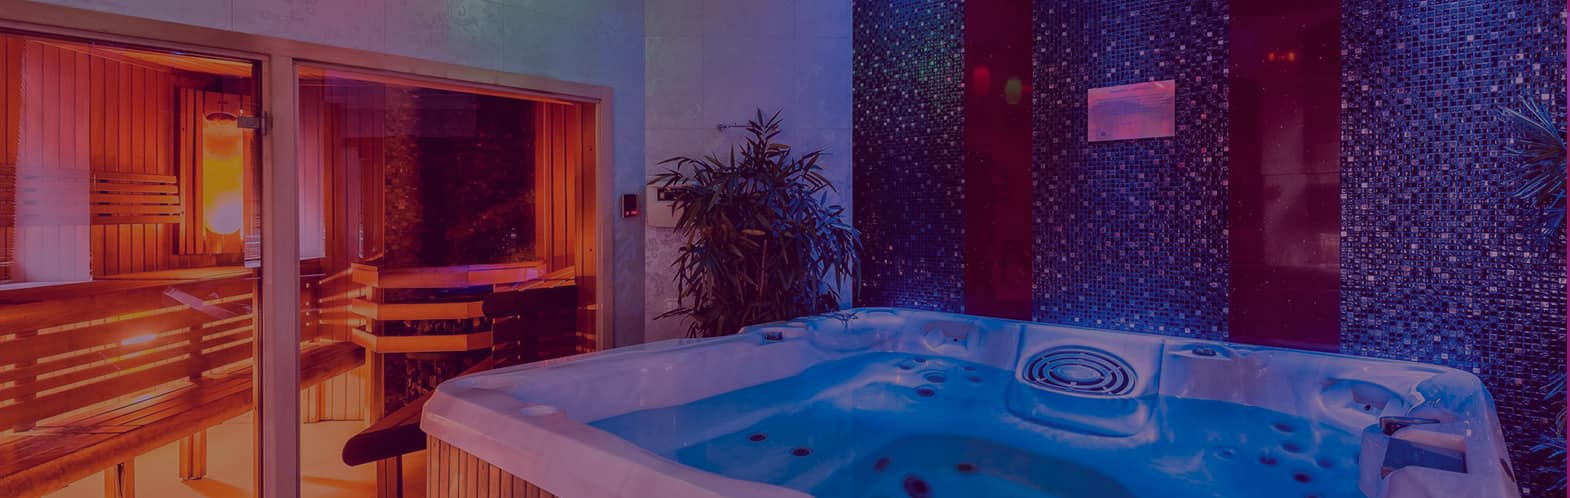
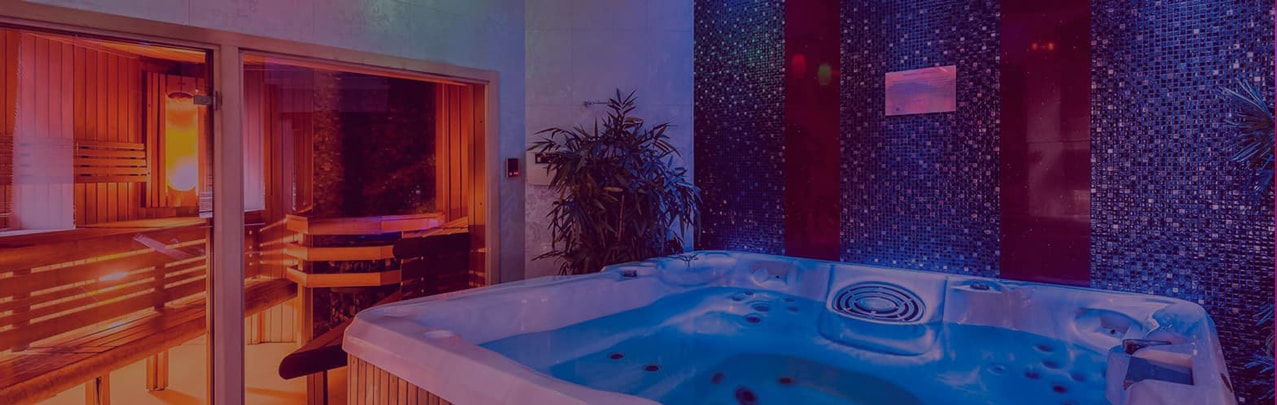
vacancies

diff --git a/vacancies.html b/vacancies.html
@@ -1,0 +1,59 @@
+<!DOCTYPE html>
+<html lang="ru">
+<head>
+	<title>Вакансии | Орхидея</title>
+	<meta charset="utf-8">
+	<meta name="viewport" content="width=device-width">
+	<meta name="format-detection" content="telephone=no">
+	<link rel="shortcut icon" type="image/x-icon" href="favicon.ico">
+	<link rel="stylesheet" type="text/css" href="css/style.css">
+	<link rel="stylesheet" href="css/owl.carousel.min.css">
+</head>
+<body class="vacancies">
+	<script src="templates/svg-sprite.js"></script>
+	<script src="templates/header.js"></script>
+	<main>
+		<ul class="breadcrumb">
+			<li><a href="index.html">Главная</a></li>
+			<li><a>Вакансии</a></li>
+		</ul>
+		<section class="preview">
+			<h1 class="wrapper single">Вакансии</h1>
+		</section>
+		<section class="content">
+			<h2 class="wrapper">Приглашаем на работу девушек от 19 до 30 лет</h2>
+			<p class="wrapper">С приятными внешними данными! Для исполнения эротического массажа в спа салоне «Орхидея»  (НЕ ИНТИМ!)</p>
+			<p class="wrapper">Мы предлагаем:</p>
+			<ul class="bulleted wrapper">
+				<li>Официальное оформление</li>
+				<li>Бесплатное питание</li>
+				<li>Обучение у высокопрофессиональных специалистов в учебных центрах города</li>
+				<li>Расположение в центре</li>
+				<li>Дружный коллектив</li>
+				<li>Согласуемый график работ</li>
+			</ul>
+			<button type="button" class="accordion active">Вакансия: Администратор<svg class="icon"><use xlink:href="#icon-arrow"></use></svg></button>
+			<div class="panel">
+				<p class="wrapper">Требуются на работу девушки, свободно говорящие по-английски, коммуникабельные, стрессоустойчивые. График сутки через трое. Высокая зарплата. Официальное трудоустройство.<br>Зарплата: от 40000, выплачивается 2 раза в месяц.<br>График: сутки через трое.<br>Возраст: от 20 до 30 лет.<br>Доп. требования: знание разговорного английского, коммуникабельность, стрессоустойчивость, доброжелательность, привлекательная внешность.</p>
+			</div>
+			<button type="button" class="accordion">Вакансия: Помощник администратора<svg class="icon"><use xlink:href="#icon-arrow"></use></svg></button>
+			<div class="panel">
+				<p class="wrapper">Помогать</p>
+			</div>
+			<button type="button" class="accordion">Вакансия: Массажистка<svg class="icon"><use xlink:href="#icon-arrow"></use></svg></button>
+			<div class="panel">
+				<p class="wrapper">Массажистковать</p>
+			</div>
+		</section>
+		<script src="templates/girls.js"></script>
+		<script src="templates/instagram.js"></script>
+		<script src="templates/info.js"></script>
+	</main>
+	<script src="templates/footer.js"></script>
+	<script src="js/jquery.min.js"></script>
+	<script src="js/owl.carousel.min.js"></script>
+	<script defer src="js/babel.js"></script>
+	<script src="https://maps.googleapis.com/maps/api/js?key=AIzaSyCoY77NK4l5PPF3rKREUDuhDFVBtFb7VYA&callback=initMap"
+    async defer></script>
+</body>
+</html>

diff --git a/css/style.css b/css/style.css
@@ -278,6 +278,11 @@ section.preview > img {
 	padding-top: 180px;
 }
 
+.vacancies section.preview {
+	background-image: url(../images/preview-vacancies.jpg);
+	padding-top: 180px;
+}
+
 .girls section.preview {
 	background-image: url(../images/preview-girls.jpg);
 }
@@ -1357,13 +1362,17 @@ a[href^='mailto:'].circle-icon::before {
 
 .accordion {
 	width: 100%;
-	padding-right: 6.25vw;
+	padding: 14px 6.25vw;
 	padding-left: 6.25vw;
 	background-color: rgb(233, 30, 145);
 	color: white;
-	line-height: 50px;
+	font-size: initial;
+	line-height: 22px;
 	text-align: left;
 	position: relative;
+	transition-property: background-color;
+	transition-duration: .35s;
+	transition-timing-function: ease-in-out;
 }
 
 .accordion svg {
@@ -1383,9 +1392,9 @@ a[href^='mailto:'].circle-icon::before {
 .panel {
 	max-height: 0;
 	overflow: hidden;
-	transition-property: max-height;
-	transition-duration: .35s;
-	transition-timing-function: ease-in-out;
+	transition-property: max-height, background-color;
+	transition-duration: .35s, .35s;
+	transition-timing-function: ease-in-out, ease-in-out;
 }
 
 .panel > div {
@@ -1502,4 +1511,29 @@ ul.parameters li {
 
 .fancybox-navigation .fancybox-button {
 	transform: translateY(-50%);
+}
+
+.vacancies .accordion {
+	color: black;
+	background-color: transparent;
+}
+
+.vacancies .accordion {
+	border-top: 1px solid rgb(226, 226, 226);
+}
+
+.vacancies .accordion:last-of-type,
+.vacancies .accordion.active {
+	border-bottom: 1px solid rgb(226, 226, 226);
+}
+
+.vacancies .panel > p {
+	padding-top: 15px;
+	padding-bottom: 15px;
+	margin-bottom: 0;
+}
+
+.vacancies .accordion.active,
+.vacancies .accordion.active + .panel {
+	background-color: rgb(243, 243, 243);
 }

diff --git a/js/babel.js b/js/babel.js
@@ -75,32 +75,24 @@ function scrollAfterClose() {
 	}, 0);
 }
 
-var map,
-    orchid = { lat: 59.9271230, lng: 30.3546023 },
-    hotel = { lat: 59.9302777, lng: 30.3612273 },
-    vladimirskaya = { lat: 59.9275064, lng: 30.3479397 },
-    markerPedestrian = 'images/pedestrian.png';
+(function setActiveAccordionsHeight() {
 
-function drawPath(place) {
+	var activeAccordions = document.querySelectorAll('.accordion.active');
+	if (!activeAccordions.length) return;
 
-	return {
-		path: place,
-		strokeOpacity: 0,
-		icons: [{
-			icon: {
-				path: 'M 0,-1 0,1',
-				strokeOpacity: .5,
-				scale: 4,
-				strokeColor: "rgb(234, 45, 152)",
-				strokeWeight: 5
-			},
-			offset: '0',
-			repeat: '20px'
-		}]
-	};
-}
+	activeAccordions.forEach(function (item) {
+		var panel = item.nextElementSibling;
+		panel.style.maxHeight = panel.scrollHeight + "px";
+	});
+})();
 
 function initMap() {
+
+	var map,
+	    orchid = { lat: 59.9271230, lng: 30.3546023 },
+	    hotel = { lat: 59.9302777, lng: 30.3612273 },
+	    vladimirskaya = { lat: 59.9275064, lng: 30.3479397 },
+	    markerPedestrian = 'images/pedestrian.png';
 
 	map = new google.maps.Map(document.getElementById('map'), {
 
@@ -132,4 +124,23 @@ function initMap() {
 
 	lineHotel.setMap(map);
 	lineVladimrskaya.setMap(map);
+
+	function drawPath(place) {
+
+		return {
+			path: place,
+			strokeOpacity: 0,
+			icons: [{
+				icon: {
+					path: 'M 0,-1 0,1',
+					strokeOpacity: .5,
+					scale: 4,
+					strokeColor: "rgb(234, 45, 152)",
+					strokeWeight: 5
+				},
+				offset: '0',
+				repeat: '20px'
+			}]
+		};
+	}
 }

diff --git a/js/script.js b/js/script.js
@@ -95,33 +95,27 @@ function scrollAfterClose() {
 
 
 
-var map,
-	orchid = {lat: 59.9271230, lng: 30.3546023},
-	hotel = {lat: 59.9302777, lng: 30.3612273},
-	vladimirskaya = {lat: 59.9275064, lng: 30.3479397},
-	markerPedestrian = 'images/pedestrian.png';
+(function setActiveAccordionsHeight() {
 
-function drawPath(place) {
+	const activeAccordions = document.querySelectorAll('.accordion.active');
+	if (!activeAccordions.length) return;
 
-	return {
-		path: place,
-		strokeOpacity: 0,
-		icons: [{
-					icon: {
-						path: 'M 0,-1 0,1',
-						strokeOpacity: .5,
-						scale: 4,
-						strokeColor: "rgb(234, 45, 152)",
-						strokeWeight: 5
-					},
-					offset: '0',
-					repeat: '20px'
-				}]
-		}
+	activeAccordions.forEach(item => {
+		const panel = item.nextElementSibling;
+		panel.style.maxHeight = panel.scrollHeight + "px"
+	})
 
-}
+})()
+
+
 
 function initMap() {
+
+	var map,
+		orchid = {lat: 59.9271230, lng: 30.3546023},
+		hotel = {lat: 59.9302777, lng: 30.3612273},
+		vladimirskaya = {lat: 59.9275064, lng: 30.3479397},
+		markerPedestrian = 'images/pedestrian.png';
 
 	map = new google.maps.Map(document.getElementById('map'), {
 
@@ -162,5 +156,25 @@ function initMap() {
 
 	lineHotel.setMap(map);
 	lineVladimrskaya.setMap(map);
+
+	function drawPath(place) {
+
+		return {
+			path: place,
+			strokeOpacity: 0,
+			icons: [{
+				icon: {
+					path: 'M 0,-1 0,1',
+					strokeOpacity: .5,
+					scale: 4,
+					strokeColor: "rgb(234, 45, 152)",
+					strokeWeight: 5
+				},
+				offset: '0',
+				repeat: '20px'
+			}]
+		}
+
+	}
 	
 }

diff --git a/lease.html b/lease.html
@@ -42,8 +42,8 @@
 			</div>
 			<div class="content">
 				<p class="wrapper tab-1">VIP-сауна №1 и Golden комната имеют небольшую площадь, а потому отлично подойдут для отдыха влюбленной или семейной пары.</p>
-				<p class="wrapper tab-2">Бар как бар</p>
-				<p class="wrapper tab-3">Вы же за этим сюда пришли</p>
+				<p class="wrapper tab-2">Для небольших компаний до 6 человек идеально подойдут VIP-сауна №2 и VIP-сауна №3</p>
+				<p class="wrapper tab-3">В каждой из VIP-зон представлены массажные программы и спа-комплексы</p>
 			</div>
 		</div>
 		<section class="saunas">
@@ -54,7 +54,7 @@
 					<div class="wrapper">VIP-сауна №1</div>
 				</div>
 				<div class="wrapper">
-					<p>VIP-сауна №1 и Golden комната имеют небольшую площадь, а потому отлично подойдут для отдыха влюбленной или семейной пары.</p>
+					<p>Имеет небольшую площадь, а потому отлично подойдет для отдыха влюбленной или семейной пары.</p>
 					<b>Возможности:</b>
 					<ul class="bulleted">
 						<li>финская парная;</li>

diff --git a/about.html b/about.html
@@ -40,14 +40,9 @@
 				</label>
 			</div>
 			<div class="content">
-				<ul class="wrapper tab-1 bulleted">
-					<li>Эротический массаж</li>
-					<li>Мыльный массаж</li>
-					<li>Чувственный массаж</li>
-					<li>Фирменный массаж</li>
-				</ul>
-				<p class="wrapper tab-2">Бар как бар</p>
-				<p class="wrapper tab-3">Вы же за этим сюда пришли</p>
+				<p class="wrapper tab-1">Наши массажи - это возможность погрузиться в таинственный и загадочный мир неги и расслабления, насладиться нежными прикосновениями сексуальных мастериц массажа, изучить каждую клеточку своего тела.</p>
+				<p class="wrapper tab-2">VIP-сауны – это ваш ключ к райскому наслаждению и неземному удовольствию!</p>
+				<p class="wrapper tab-3">Сертификаты дают возможность стать VIP-персоной нашего салона и получать частные скидочные предложения для клиентов.</p>
 			</div>
 		</div>
 		<section class="interiors">

diff --git a/templates/info.js b/templates/info.js
@@ -7,9 +7,9 @@ document.write('\
 			<a href="tel:88127645449">8 (812) 764-54-49</a><br>\
 			<a href="orchid-policy.pdf">Пользовательское соглашение</a>\
 			<div class="social">\
-				<a href=""><svg class="icon"><use xlink:href="#icon-vk"></use></svg></a>\
-				<a href=""><svg class="icon"><use xlink:href="#icon-fb"></use></svg></a>\
-				<a href=""><svg class="icon"><use xlink:href="#icon-inst"></use></svg></a>\
+				<a href="https://vk.com/spaorchid"><svg class="icon"><use xlink:href="#icon-vk"></use></svg></a>\
+				<a href="https://www.facebook.com/Spa-%D1%81%D0%B0%D0%BB%D0%BE%D0%BD-%D1%8D%D1%80%D0%BE%D1%82%D0%B8%D1%87%D0%B5%D1%81%D0%BA%D0%BE%D0%B3%D0%BE-%D0%BC%D0%B0%D1%81%D1%81%D0%B0%D0%B6%D0%B0-%D0%9E%D1%80%D1%85%D0%B8%D0%B4%D0%B5%D1%8F-265267500680236"><svg class="icon"><use xlink:href="#icon-fb"></use></svg></a>\
+				<a href="https://www.instagram.com/spaorchid_spb/"><svg class="icon"><use xlink:href="#icon-inst"></use></svg></a>\
 			</div>\
 		</div>\
 		<div class="payment">\

diff --git a/templates/header.js b/templates/header.js
@@ -10,7 +10,7 @@ document.write('\
 				<ul class="submenu">\
 					<li><button type="button" class="back"><svg class="icon"><use xlink:href="#icon-arrow"></use></svg>Вернуться назад</button></li>\
 					<li><a href="about.html">О салоне</a></li>\
-					<li><a href="">Вакансии</a></li>\
+					<li><a href="vacancies.html">Вакансии</a></li>\
 					<li><a href="reviews.html">Отзывы</a></li>\
 					<li><a href="bar-menu.html">Меню бара</a></li>\
 					<li class="all"><a href="price-list.html" class="btn">Смотреть прайс-лист услуг</a></li>\

diff --git a/price-list.html b/price-list.html
@@ -19,7 +19,7 @@
 			<li><a>Прайс услуг</a></li>
 		</ul>
 		<button type="button" class="accordion active">Комната STANDART<svg class="icon"><use xlink:href="#icon-arrow"></use></svg></button>
-		<div class="panel" style="max-height: 860px">
+		<div class="panel">
 			<div>
 				<h2 class="wrapper">Эротический массаж</h2>
 				<ul class="wrapper bulleted">

diff --git a/templates/girls.js b/templates/girls.js
@@ -24,7 +24,8 @@ document.write('\
 				autoHeight: true,\
 				dots: false,\
 				nav: true,\
-				navText: arrows\
+				navText: arrows,\
+				loop: true\
 			});\
 		});\
 	</script>\
